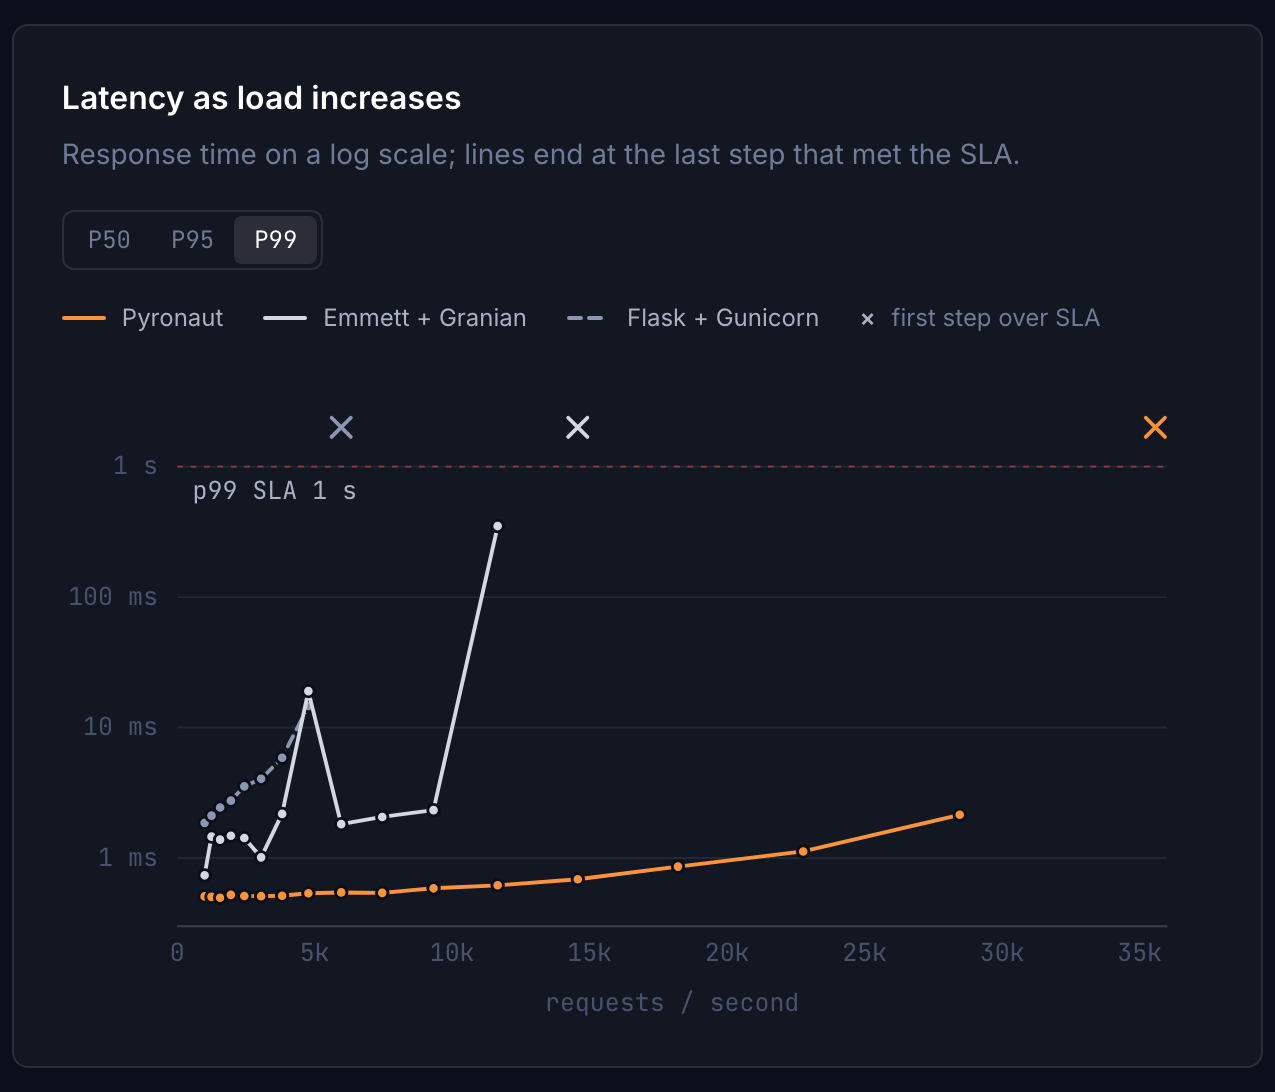
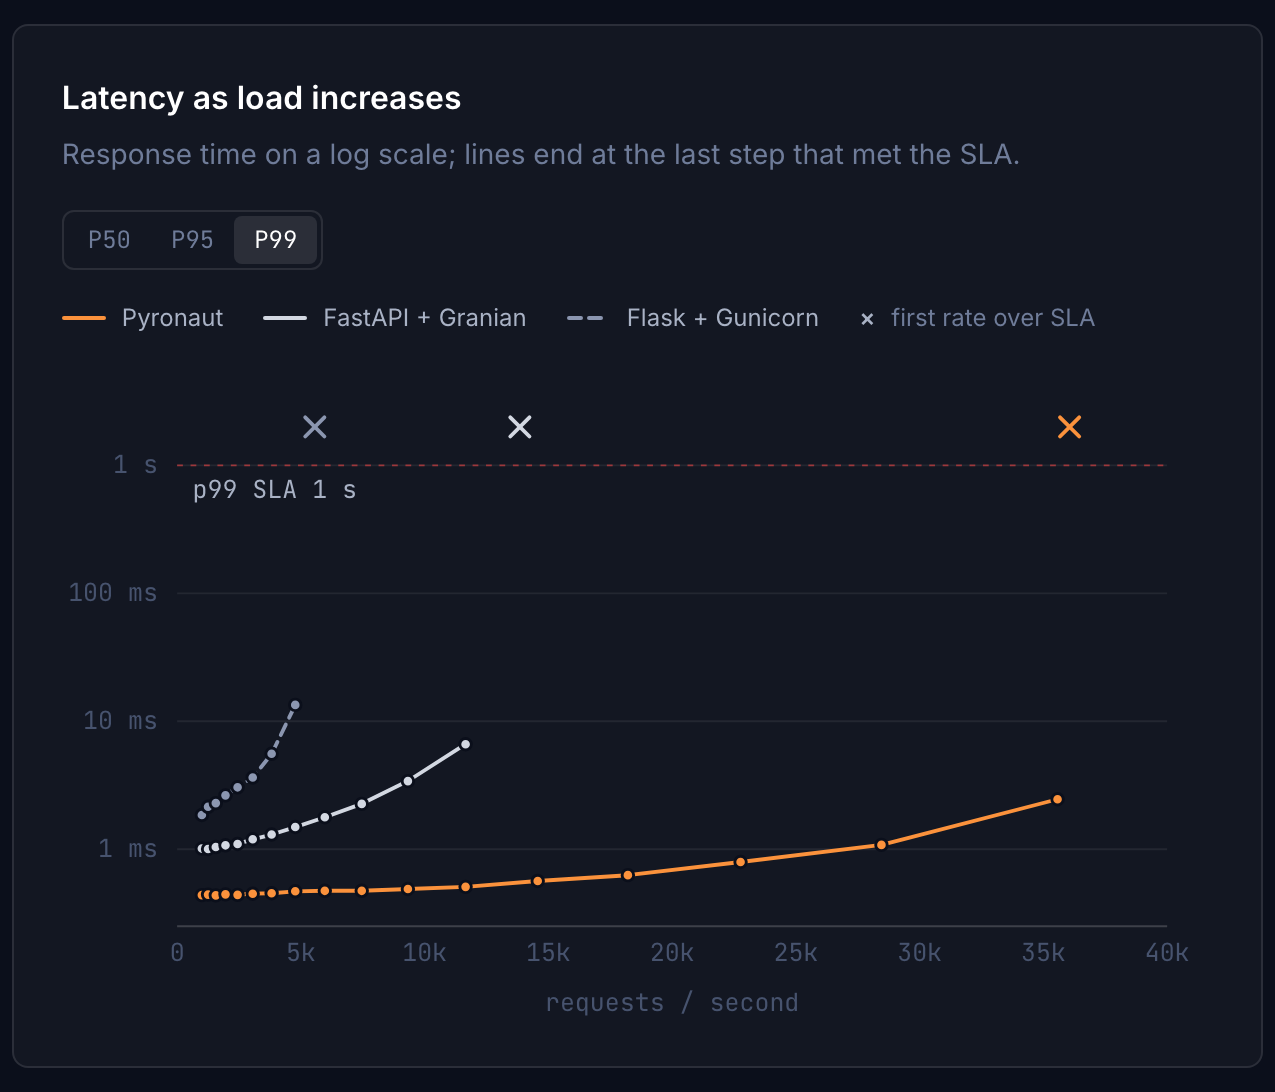
Update announcement post benchmarks to the 2026-09-27 run
The performance page now compares Pyronaut with FastAPI + Granian and Flask + Gunicorn. Update the numbers, text, alt text and both chart screenshots in the post to match.

diff --git a/src/content/blog/2026/10/02/introducing-pyronaut.md b/src/content/blog/2026/10/02/introducing-pyronaut.md
@@ -54,7 +54,7 @@ pyronaut run main.py
 
 Micronaut is built on Netty, one of the most scalable and performant asynchronous frameworks in the world in any language.
 
-With Pyronaut your Python code is served by that same Netty-based HTTP server and optimized by the Graal JIT. In our benchmarks that means more than twice the throughput of the next fastest Python framework, at lower latency (more on that [later in this post](#jvm-level-performance-for-python-services)).
+With Pyronaut your Python code is served by that same Netty-based HTTP server and optimized by the Graal JIT. In our benchmarks that means 2.6 times the throughput of FastAPI and 6.5 times that of Flask, at lower latency (more on that [later in this post](#jvm-level-performance-for-python-services)).
 
 We wired the Python `asyncio` plumbing directly into the Netty event loop so that you can natively use `async/await` with Pyronaut to write scalable non-blocking services.
 
@@ -436,13 +436,13 @@ Performance has been a big focus of Micronaut and GraalVM since forever. We have
 
 That philosophy is no different today and with Pyronaut it already provides more throughput at reduced latency than any other comparable Python framework.
 
-We drove Pyronaut, Emmett on Granian and Flask on Gunicorn with the same Hyperfoil load ramp over HTTPS/HTTP2 against the same 3 OCPU VM. A step only counts if it meets every latency SLA (p50 under 100ms, p95 under 200ms, p99 under 1s). Pyronaut sustained 33,802 requests per second, more than twice the next fastest Python framework and nearly six times Flask:
+We drove Pyronaut, FastAPI on Granian and Flask on Gunicorn with the same Hyperfoil load ramp over HTTPS/HTTP2 against the same 3 OCPU VM. A step only counts if it meets every latency SLA (p50 under 100ms, p95 under 200ms, p99 under 1s). Pyronaut sustained 35,351 requests per second, 2.6 times FastAPI and 6.5 times Flask:
 
-![Sustained throughput: Pyronaut 33,802 req/s, Emmett + Granian at least 14,569 req/s, Flask + Gunicorn 5,675 req/s](/pyronaut-assets/blog/introducing-pyronaut/performance-throughput.png)
+![Sustained throughput: Pyronaut 35,351 req/s, FastAPI + Granian 13,576 req/s, Flask + Gunicorn 5,453 req/s](/pyronaut-assets/blog/introducing-pyronaut/performance-throughput.png)
 
-And latency stays flat as the load increases, with p99 latency under 1ms all the way up to around 18,000 requests per second:
+And latency stays flat as the load increases, with p99 latency under 1ms all the way up to around 22,000 requests per second. At 11,655 requests per second, Pyronaut's p99 latency was 0.51ms compared to 6.62ms for FastAPI:
 
-![p99 latency as load increases, on a log scale. Pyronaut stays near 0.5ms until around 15k req/s and reaches about 2ms at 28k req/s, while Emmett and Flask climb sooner](/pyronaut-assets/blog/introducing-pyronaut/performance-latency.png)
+![p99 latency as load increases, on a log scale. Pyronaut stays near 0.5ms until around 12k req/s and reaches about 2.5ms at 35.6k req/s, while FastAPI and Flask climb much sooner](/pyronaut-assets/blog/introducing-pyronaut/performance-latency.png)
 
 The test setup, along with the p50 and p95 numbers, is available on the [performance page](https://pyronaut.io/performance/).
 
